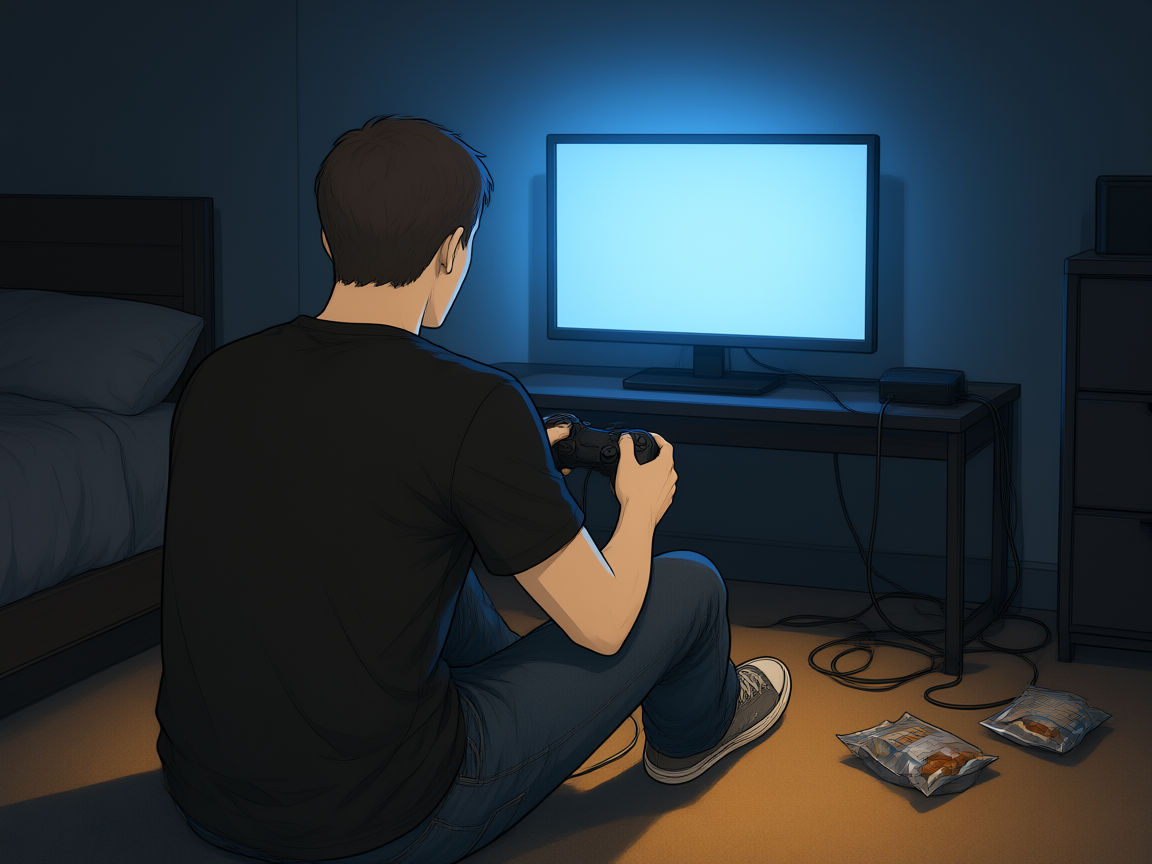
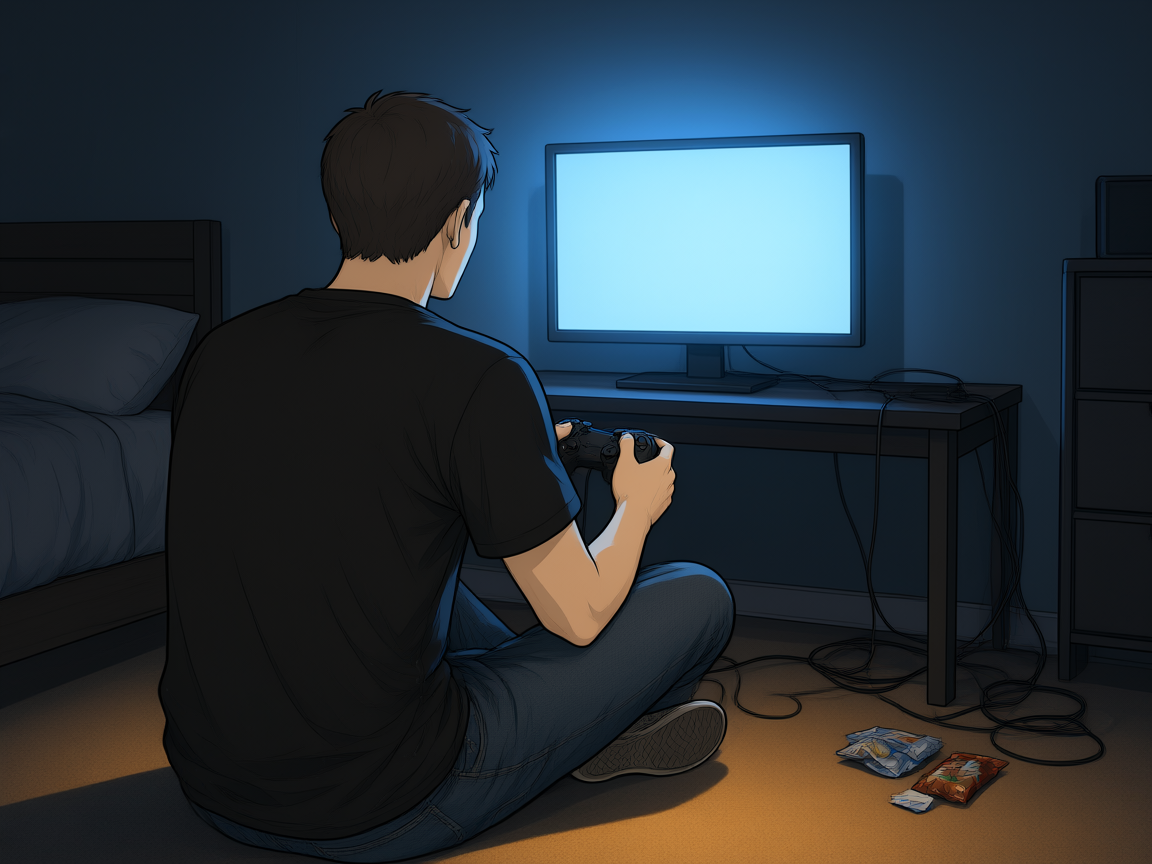
feat(slides): storyboard do capitulo 1 e reconciliacao com as imagens
STORYBOARD-CAP1.md: o contrato das dez telas. Define o que e uma cartela -- imagem,
frase, faixa de HUD, nada mais -- e por que a unidade do capitulo 1 e a batida
narrativa e nao o topico de exercicio: nao ha exercicio no quadro antes do primeiro
portao, entao o HUD de fase nao tem o que mostrar.

Arco em quatro atos (anedota, instrumento, caso, fecho), com a virada em Q03.
Para cada quadro: arquivo, frase, o que a imagem mostra, por que essa imagem e a
transicao para o proximo. Inventario: 10 geradas, 0 SVG -- consequencia da premissa,
nao economia.

CAPITULO-1.md: o personagem nao tem capuz. O capuz foi descartado em out/2026 (criava
figurino de ficcao num capitulo que e o quarto do aluno, e caia para tras na cena de
vitoria). Referencias corrigidas para jogador-quarto.png. C2, C3, C8 e C9 alinhados
ao que as imagens de fato mostram.

As quatro regeradas (c1, c5, c9, c10) conferidas por visao: sem rosto, sem texto
legivel, area inferior esquerda livre para a frase.

diff --git a/slide-decks/STORYBOARD-CAP1.md b/slide-decks/STORYBOARD-CAP1.md
@@ -1,0 +1,178 @@
+# Storyboard — Capítulo 1 · Como se sabe que algo funciona
+
+O capítulo de abertura: **10 telas**, uma imagem gerada e uma frase por tela, antes do primeiro
+portão. É o único bloco do curso em que o slide não carrega matemática nenhuma — ele carrega o
+instrumento com que o aluno vai julgar o resto.
+
+Este documento é o contrato de implementação. A prosa está em
+[`CAPITULO-1.md`](CAPITULO-1.md); as imagens, em `img/`.
+
+---
+
+## 0. O que é uma cartela (a definição que faltava)
+
+Uma cartela é **uma tela inteira** com exatamente quatro coisas:
+
+1. **uma imagem** (a cena, Camada B, gerada e marcada como fabricada);
+2. **uma frase** (uma oração, no canto inferior esquerdo, sobre a área escura);
+3. **a faixa de HUD** (fina, no topo: `CAPÍTULO 1 · O INSTRUMENTO` e `0/6 chaves`);
+4. **nada mais.**
+
+Uma cartela **não tem**: título, bullet, fórmula, número, legenda de figura, crédito de imagem
+visível durante a leitura, ou segunda frase. Se precisar de duas frases, são duas telas.
+
+**Por que a cartela é a unidade do capítulo 1 e não a fase.** O capítulo 1 não tem tópico de
+exercício — não há exercício para resolver no quadro. Sem tópico, o HUD de fase não tem o que
+mostrar. Então a unidade vira a **batida narrativa**: uma tela, um passo do argumento.
+
+**Por que a frase fica embaixo à esquerda.** Todas as dez imagens foram compostas com a área
+inferior esquerda escura e vazia para isso. A frase não fica dentro de uma caixa: ela fica
+sobre a imagem, em branco, na VT323. Se a imagem não tiver área escura ali, a imagem está
+errada — não a caixa.
+
+**Orçamento de texto do capítulo inteiro: 10 frases.** Nenhuma tela tem duas.
+
+---
+
+## 1. O arco em quatro atos
+
+O capítulo não é uma lista de dicas: é um homem errando o método antes de acertar.
+
+- **Ato 1 · a anedota (Q01–Q03)** — ele tem uma teoria, ela funciona uma vez, e ele conclui que
+  funciona. Aqui o aluno se reconhece.
+- **Ato 2 · o instrumento (Q04–Q06)** — três perguntas que desmontam a anedota: comparar com
+  quem, mudar uma coisa só, ter quem não mudou.
+- **Ato 3 · o caso (Q07–Q09)** — o mesmo erro, feito por cientistas: um experimento real que
+  virou livro e não sobreviveu à repetição. Volta, dados, significância.
+- **Ato 4 · o fecho (Q10)** — o caderno fecha, a tela continua acesa, e o capítulo entrega a
+  ponte para a Fase 1 em uma linha.
+
+**A virada é Q03.** "Funcionou uma vez" é o que todo mundo chama de evidência. Se o aluno não
+leva Q03, o resto do capítulo é decoração.
+
+---
+
+## 2. Os dez quadros
+
+### Q01 · `img/c1-teoria.png`
+**FRASE:** *Todo mundo tem uma teoria de como jogar melhor.*
+**A imagem mostra:** quarto escuro à noite, visto por trás; um jovem sentado no chão diante do
+monitor aceso, controle na mão. Cabos no chão, luz fria da tela nas paredes, luz âmbar no piso.
+**Por que essa imagem:** é o grau zero — o jogador sem método. Nada na cena diz que ele está
+errado, e é isso: a cena apresenta a convicção, não o erro.
+**Transição para Q02:** a frase afirma que ele tem uma teoria; a próxima diz qual é.
+
+### Q02 · `img/c2-madrugada.png`
+**FRASE:** *A dele era virar a noite.*
+**A imagem mostra:** a mesma sala, mais tarde. Ele caído sobre a mesa, caneca vazia, o relógio
+de perfil (de propósito: o mostrador não aparece — número gerado é número errado).
+**Por que essa imagem:** a teoria dele não é uma ideia, é um comportamento. A aula mostra o
+comportamento porque é o que o aluno também faz.
+**Transição:** Q03 é a consequência, e é onde o capítulo arma a pegadinha.
+
+### Q03 · `img/c3-vitoria.png`
+**FRASE:** *Funcionou uma vez. Isso não é evidência.*
+**A imagem mostra:** ele de costas, os dois braços erguidos diante da tela estourada de branco.
+**Por que essa imagem:** o gesto de vitória é o momento em que **qualquer pessoa** conclui a
+causa. A imagem tem que ser comemorativa, porque a frase tem que doer.
+**Nota:** o gesto é de costas, sem rosto — o triunfo é do aluno, não de um personagem.
+**Transição:** a virada. Daqui em diante o capítulo não conta história, ensina a desmontar.
+
+### Q04 · `img/c4-caderno.png`
+**FRASE:** *Para saber, tem que comparar.*
+**A imagem mostra:** caderno aberto, duas colunas traçadas a régua, ambas vazias. Lápis ao lado.
+**Por que essa imagem:** as duas colunas vazias **são** o instrumento 1. A imagem é a pergunta
+"comparado com quê?" antes de qualquer número existir.
+**Transição:** se comparar é o instrumento, comparar errado é a armadilha seguinte.
+
+### Q05 · `img/c5-semanas.png`
+**FRASE:** *Uma coisa de cada vez.*
+**A imagem mostra:** duas grades semanais lado a lado; à esquerda luas, à direita sóis; uma
+única linha difere entre as duas.
+**Por que essa imagem:** a diferença de uma linha é o instrumento 2 (isolar a variável) visto de
+cima, sem texto. Quem mexeu em tudo não sabe o que causou o quê.
+**Transição:** falta a régua — comparar com quem não mudou nada.
+
+### Q06 · `img/c6-dois-jogadores.png`
+**FRASE:** *Alguém que não mudou nada.*
+**A imagem mostra:** dois homens diferentes, de costas, cada um na sua mesa. Caderno novo à
+esquerda, caderno gasto à direita.
+**Por que essa imagem:** o grupo de controle é uma **pessoa que continua igual**, não uma
+coluna. A imagem tem dois corpos porque a ideia é relacional.
+**Nota de geração:** sem referência de personagem e com negativo anti-clone — o modelo já
+devolveu três homens idênticos nesta cena.
+**Transição:** com o instrumento completo, o capítulo volta ao começo — mas agora com cientistas.
+
+### Q07 · `img/c7-estante.png`
+**FRASE:** *Virou livro. Não se repetiu.*
+**A imagem mostra:** uma prateleira; um livro grosso com lombada dourada de pé, e ao lado uma
+folha fina grampeada.
+**Por que essa imagem:** a assimetria é o argumento. O livro vendeu; a replicação não.
+**Nota:** a lombada **não tem título legível**, por regra. O livro é "um livro", não um livro
+identificável — a identificação vem da fala do professor, com a referência.
+**Transição:** se o livro não basta, o que basta? Volume.
+
+### Q08 · `img/c8-pilhas.png`
+**FRASE:** *Uma noite é anedota. Trinta são dados.*
+**A imagem mostra:** mesa coberta por uma pilha alta de folhas soltas; uma mão apoiada no topo.
+**Por que essa imagem:** a pilha tem **altura** — o instrumento 4 é quantidade, e quantidade
+precisa ser vista, não lida.
+**Transição:** trinta noites ainda podem ser trinta noites de sorte.
+
+### Q09 · `img/c9-colunas.png`
+**FRASE:** *A diferença é maior do que o acaso?*
+**A imagem mostra:** página de caderno com dois blocos de marcas de contagem quase iguais, e
+uma diferença pequena circulada a lápis vermelho.
+**Por que essa imagem:** é o único lugar do capítulo em que o aluno **vê** uma diferença
+pequena — e a frase pergunta se ela é real. A resposta (d = 0,04, IC contendo o zero) é dita em
+sala, com a referência na mão; a imagem não pode carregar número.
+**Transição:** o instrumento está completo. Falta dizer para que ele serve fora deste capítulo.
+
+### Q10 · `img/c10-fecho.png`
+**FRASE:** *Antes de saber o que funciona, saiba como se sabe.*
+**LINHA MENOR, embaixo:** *Duas coisas que sempre andam juntas são uma só.*
+**A imagem mostra:** o caderno fechado na mesa; ao fundo, a tela do jogo ainda acesa. Duas linhas
+idênticas riscadas na capa.
+**Por que essa imagem:** o capítulo fecha com o caderno fechado e o jogo ligado — o método
+terminou, o jogo continua. A tela acesa é o próximo capítulo.
+**Transição:** a linha menor é a **única** antecipação de matemática do capítulo inteiro. Ela
+não ensina independência linear; ela deixa a palavra no ar para a Fase 1 cobrar.
+
+---
+
+## 3. Inventário de imagem
+
+| Camada | Quantidade | Arquivos |
+|---|---|---|
+| Gerada (Camada B) | 10 | `c1-teoria` … `c10-fecho` |
+| SVG (Camada A) | 0 | — |
+| Total de telas | 10 | |
+
+**Zero SVG** é consequência da premissa, não economia: o capítulo não tem fórmula nem número
+verificável. Qualquer diagrama que aparecesse aqui seria o slide explicando — e quem explica é
+o quadro.
+
+**Rotina de imagem:** as dez passam pelo mesmo traço (contorno preto fechado, cor chapada, cel
+shading), mesma paleta (azul-cinza, carvão, âmbar), mesma luz (tela fria à frente, lâmpada
+quente na lateral). O gênero noir chega na Fase 1; aqui ainda é o quarto.
+
+---
+
+## 4. O que a Fase 1 herda deste capítulo
+
+O aluno sai sabendo o que é **variável confundida** sem nunca ter ouvido o nome. A Fase 1 dá o
+nome em matriz: dependência linear, posto, grau de liberdade. Ver
+[`MAPA-CAPITULOS.md`](MAPA-CAPITULOS.md) e [`STORYBOARD-F1.md`](STORYBOARD-F1.md).
+
+A frase de Q05 é o que a Fase 1 formaliza. A frase de Q10 é o que a Fase 1 cobra.
+
+---
+
+## 5. Estado
+
+- [x] as dez imagens geradas, verificadas (sem rosto, sem texto legível, sem clone)
+- [x] manifesto em `img-gen/cenas-cap1.tsv`
+- [ ] as dez telas implementadas em Reveal
+- [ ] a fala do professor de cada tela — **não vai no slide**
+
+Ver em [`AGENTS.md`](AGENTS.md) §3 e §8.

diff --git a/slide-decks/CAPITULO-1.md b/slide-decks/CAPITULO-1.md
@@ -14,12 +14,17 @@ aluno pode discordar do curso com razão — que é o objetivo.
 
 ## 1. O personagem
 
-Um jogador de **capuz, sem rosto**. Mesma silhueta, mesma roupa, mesma postura em todas as
-imagens do curso. Sem nome.
+Um jogador **sem rosto**. Mesma silhueta, mesma roupa, mesma postura em todas as imagens do
+curso. Sem nome. Camiseta escura, calça, nada de figurino: ele está em casa.
 
 **Por que sem rosto:** rosto gerado por IA muda entre imagens, e dez imagens com dez caras
 diferentes destroem a ideia de que é a mesma pessoa. Sem rosto ele é consistente de graça — e
 vira qualquer aluno.
+
+**Por que não de capuz (descartado em out/2026):** o capuz era a solução para esconder o rosto,
+mas criava um personagem de ficção — e o capítulo 1 não é ficção, é o quarto do aluno. O capuz
+foi testado nas dez cenas e rejeitado: na cena de vitória ele caía para trás e virava outro
+personagem. A referência canônica é `img/personagens/jogador-quarto.png`.
 
 **Por que ele é o aluno:** o que acontece com ele no capítulo 1 é o que acontece com quem
 estuda. Ele erra o método antes de acertar. Não é exemplo de virtude; é cobaia de si mesmo.
@@ -87,16 +92,17 @@ disso em matriz: dependência linear, posto, grau de liberdade.
 
 ## 5. As dez cartelas
 
-Cada cartela é **uma imagem e uma frase**. Nenhuma imagem é gerada ainda — a descrição é o
-contrato para quem for gerar depois.
+Cada cartela é **uma imagem e uma frase**. As dez estão geradas em `img/c1-teoria.png` …
+`img/c10-fecho.png`; a descrição abaixo é o que elas mostram. O contrato de tela — o que entra,
+o que não entra, onde a frase senta — está em [`STORYBOARD-CAP1.md`](STORYBOARD-CAP1.md).
 
-**C1 · IMAGEM:** sala escura, só o brilho do monitor. O jogador de capuz, de costas, controle na mão.
+**C1 · IMAGEM:** sala escura, só o brilho do monitor. O jogador, de costas, controle na mão.
 **FRASE:** *Todo mundo tem uma teoria de como jogar melhor.*
 
-**C2 · IMAGEM:** a mesma sala, madrugada. Xícara, olhos vermelhos, o relógio marcando quatro.
+**C2 · IMAGEM:** a mesma sala, madrugada. Caneca vazia, ele caído sobre a mesa, o relógio de perfil (o mostrador não aparece de propósito).
 **FRASE:** *A dele era virar a noite.*
 
-**C3 · IMAGEM:** tela de vitória. Ele de punho erguido, capuz caído para trás.
+**C3 · IMAGEM:** tela de vitória estourada de branco. Ele de costas, os dois braços erguidos.
 **FRASE:** *Funcionou uma vez. Isso não é evidência.*
 
 **C4 · IMAGEM:** caderno aberto na mesa, duas colunas traçadas a régua, nada escrito ainda.
@@ -111,10 +117,10 @@ contrato para quem for gerar depois.
 **C7 · IMAGEM:** estante. Um livro grosso, com lombada dourada. Ao lado, uma folha fina, sem graça, grampeada.
 **FRASE:** *Virou livro. Não se repetiu.*
 
-**C8 · IMAGEM:** pilha de folhas cobrindo a mesa, cada uma com uma marcação de data.
+**C8 · IMAGEM:** pilha alta de folhas cobrindo a mesa, cada uma com uma marca ilegível num canto; uma mão apoiada no topo.
 **FRASE:** *Uma noite é anedota. Trinta são dados.*
 
-**C9 · IMAGEM:** duas colunas de números no caderno, quase iguais; uma diferença pequena circulada.
+**C9 · IMAGEM:** dois blocos de marcas de contagem no caderno, quase iguais; uma diferença pequena circulada a lápis vermelho.
 **FRASE:** *A diferença é maior do que o acaso?*
 
 **C10 · IMAGEM:** o caderno fechado; ao fundo, a tela do jogo ainda acesa. Duas linhas de números idênticas riscadas.
